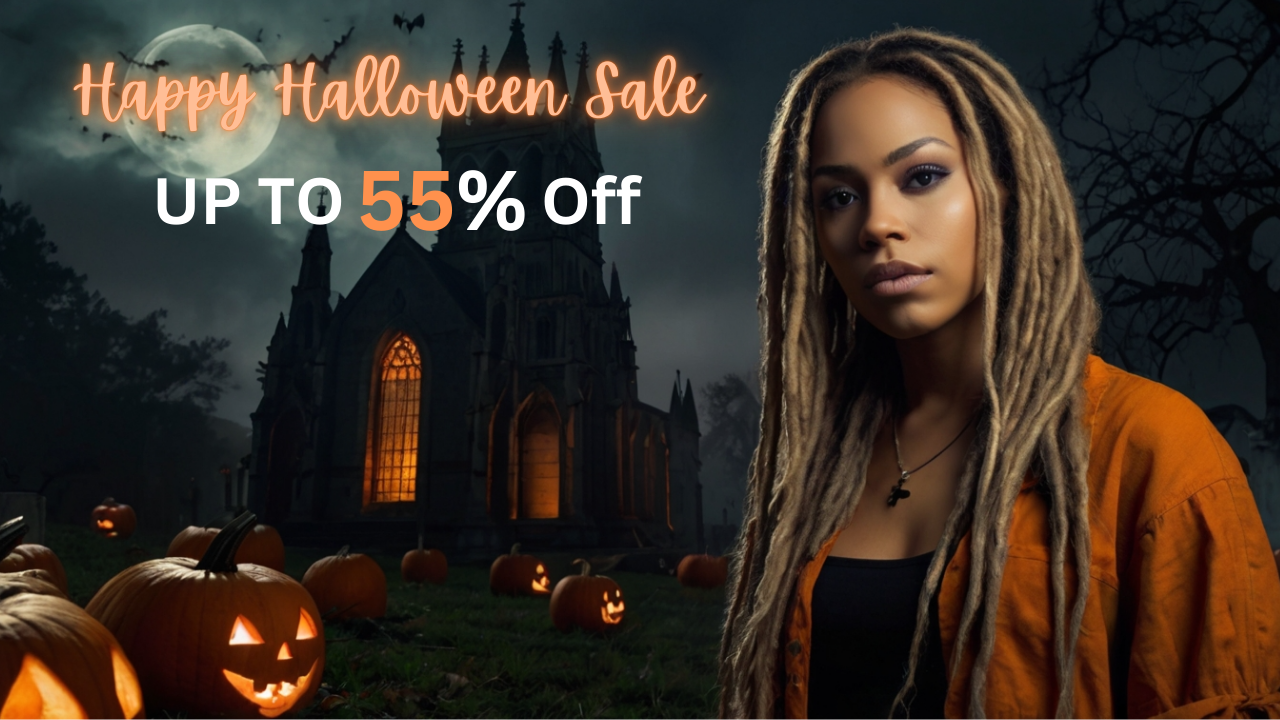
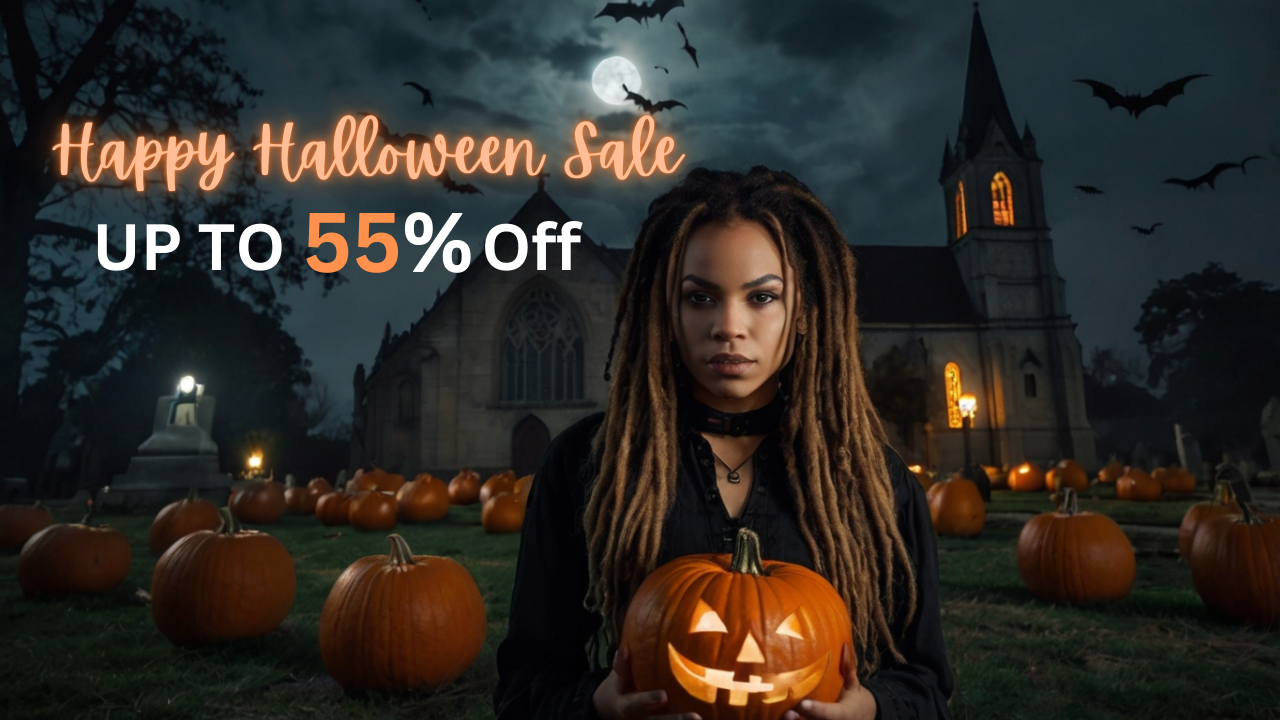
carousel

diff --git a/templates/partials/footer.html b/templates/partials/footer.html
@@ -4,30 +4,30 @@
       <div class="row">
         <div class="col-6 col-md-2 mb-3">
           <h5>SERVICE</h5>
-          <ul class="nav flex-column">
-            <li class="nav-item mb-2"><a href="#" class="nav-link p-0 text-white">Customer Service</a></li>
-            <li class="nav-item mb-2"><a href="#" class="nav-link p-0 text-white">Contact Us</a></li>
-            <li class="nav-item mb-2"><a href="#" class="nav-link p-0 text-white">Returns</a></li>
+          <ul class="nav flex-column" id="footer-links">
+            <li class="nav-item mb-2"><a href="#" class="nav-link p-0">Customer Service</a></li>
+            <li class="nav-item mb-2"><a href="#" class="nav-link p-0">Contact Us</a></li>
+            <li class="nav-item mb-2"><a href="#" class="nav-link p-0">Returns</a></li>
           </ul>
         </div>
   
         <div class="col-6 col-md-2 mb-3">
           <h5>ABOUT US</h5>
           <ul class="nav flex-column">
-            <li class="nav-item mb-2"><a href="#" class="nav-link p-0 text-white">About Us</a></li>
-            <li class="nav-item mb-2"><a href="#" class="nav-link p-0 text-white">FAQ</a></li>
-            <li class="nav-item mb-2"><a href="#" class="nav-link p-0 text-white">Policies</a></li>
+            <li class="nav-item mb-2"><a href="#" class="nav-link p-0">About Us</a></li>
+            <li class="nav-item mb-2"><a href="#" class="nav-link p-0">FAQ</a></li>
+            <li class="nav-item mb-2"><a href="#" class="nav-link p-0">Policies</a></li>
           </ul>
         </div>
   
         <div class="col-6 col-md-2 mb-3">
           <h5>SHOP</h5>
           <ul class="nav flex-column">
-            <li class="nav-item mb-2"><a href="#" class="nav-link p-0 text-white">Home</a></li>
-            <li class="nav-item mb-2"><a href="#" class="nav-link p-0 text-white">Hair Wigs</a></li>
-            <li class="nav-item mb-2"><a href="#" class="nav-link p-0 text-white">Hair Extensions</a></li>
-            <li class="nav-item mb-2"><a href="#" class="nav-link p-0 text-white">Products</a></li>
-            <li class="nav-item mb-2"><a href="#" class="nav-link p-0 text-white">Events</a></li>
+            <li class="nav-item mb-2"><a href="#" class="nav-link p-0">Home</a></li>
+            <li class="nav-item mb-2"><a href="#" class="nav-link p-0">Hair Wigs</a></li>
+            <li class="nav-item mb-2"><a href="#" class="nav-link p-0">Hair Extensions</a></li>
+            <li class="nav-item mb-2"><a href="#" class="nav-link p-0">Products</a></li>
+            <li class="nav-item mb-2"><a href="#" class="nav-link p-0">Events</a></li>
           </ul>
         </div>
   

diff --git a/templates/partials/hero-section.html b/templates/partials/hero-section.html
@@ -1,7 +1,7 @@
  <!-- HERO SECTION -->
  {% load static %}
  <section id="hero">
-    <div id="myCarousel" class="carosel slide" data-bs-ride="carosel">
+    <div id="myCarousel" class="carousel slide" data-bs-ride="carousel">
         <div class="carousel-indicators">
             <button type="button" data-bs-target="#myCarousel" data-bs-slide-to="0" class="active"
                 aria-current="true" aria-label="Slide 1"></button>
@@ -9,7 +9,7 @@
             <button type="button" data-bs-target="#myCarousel" data-bs-slide-to="2" aria-label="Slide 3"></button>
         </div>
         <div class="carousel-inner">
-            <div class="carousel-item bg-setup active carousel-bg-1 carousel-bg-1-mobile">
+            <div class="carousel-item carousel-image bg-setup active carousel-bg-1 carousel-bg-1-mobile">
                     <div class="container">
                         <div class="carousel-caption">
                             <div class="my-5">
@@ -20,9 +20,9 @@
                         </div>
                     </div>
             </div>
-            <div class="carousel-item bg-setup carousel-bg-2 carousel-bg-2-mobile">
+            <div class="carousel-item carousel-image bg-setup carousel-bg-2 carousel-bg-2-mobile">
                 <div class="container">
-                    <div class="carousel-caption text-start">
+                    <div class="carousel-caption text-right">
                         <div class="my-5">
                             <h2>
                                 <a href="" class="shop-now-button btn btn-cordovan text-uppercase py-3">Shop Now</a>
@@ -31,9 +31,9 @@
                     </div>
                 </div>
             </div>
-            <div class="carousel-item bg-setup carousel-bg-3 carousel-bg-3-mobile">
+            <div class="carousel-item carousel-image bg-setup carousel-bg-3 carousel-bg-3-mobile">
                 <div class="container">
-                    <div class="carousel-caption text-start">
+                    <div class="carousel-caption text-center">
                         <h2>Hair Hotty</h2>
                         <p>Best Collections for this Autumn!</p>
                         <div class="my-5">

diff --git a/static/css/style.css b/static/css/style.css
@@ -143,7 +143,6 @@ background-color: black;
 }
 
 .carousel-caption {
-    top: 60%;
     -webkit-transform: translateY(-50%);
     -ms-transform: translateY(-50%);
     transform: translateY(-50%);
@@ -154,15 +153,23 @@ background-color: black;
 }
 
 .carousel-bg-1 {
-    background: url('/static/images/hero-banner1.png') no-repeat center;
+    background: url('/static/images/hero-banner1.png');
 }
 
 .carousel-bg-2 {
-    background: url('/static/images/hero-banner2.png')no-repeat center;
+    background: url('/static/images/hero-banner2.png');
 }
 
 .carousel-bg-3 {
-    background: url('/static/images/hero-banner3.jpg')no-repeat center;
+    background: url('/static/images/hero-banner3.jpg');
+}
+
+.carousel-image {
+    height: 100vh;
+    width: 100%;
+    background-repeat: no-repeat;
+    background-size: cover;
+    background-position: center;
 }
 
 #hero .btn {
@@ -631,7 +638,11 @@ button.wishlist {
     color: #fff;
 }
 
-.nav-link a:hover {
+#footer-links a {
+    color: var(--white);
+}
+
+#footer-links a:hover {
     color: #6f6a6a;
 }
 
